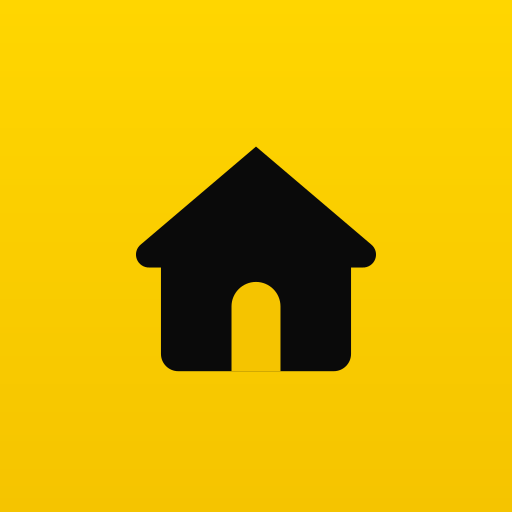
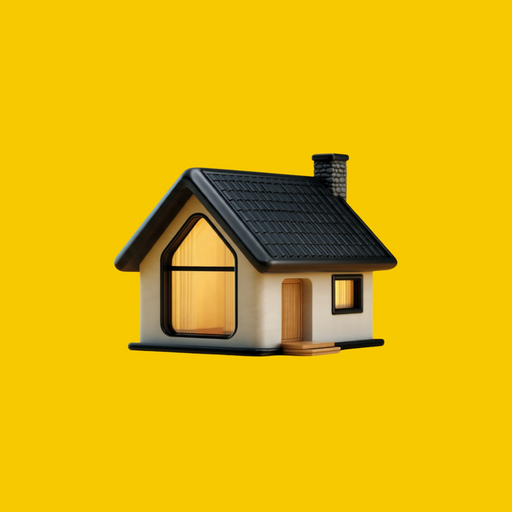
Gastos: Verisure + Zoe · nuevo icono de Casa Caride (#52)
* gastos: agrega Verisure (alarma, paga Flor) y Zoe (paseadora de Fabi) a gastos fijos

* shell: nuevo icono de Casa Caride (casa 3D)

Claude-Session: https://claude.ai/code/session_016dSNnQpofywx8mEgJYkd9d

* shell: usa el nuevo icono de casa en el header y en login/invite (reemplaza el emoji)

Claude-Session: https://claude.ai/code/session_016dSNnQpofywx8mEgJYkd9d

* shell: bump service worker cache a v9 para purgar iconos cacheados

Claude-Session: https://claude.ai/code/session_016dSNnQpofywx8mEgJYkd9d

* shell: actualiza icono de Casa Caride (nueva casa 3D) + bump caché sw v10

Claude-Session: https://claude.ai/code/session_016dSNnQpofywx8mEgJYkd9d

---------

Changed region(s): [[0.2188, 0.2812, 0.7812, 0.75]]

diff --git a/apps/gastos/lib/seed.ts b/apps/gastos/lib/seed.ts
@@ -35,6 +35,9 @@ export const SEED_FIJOS: FijoInput[] = [
   f({ nombre: 'Garita seguridad', categoria: 'Seguridad', pagador: 'Tomás', moneda: 'ARS',
       montoEstimado: 0, diaVencimiento: null, medioPago: 'Transferencia',
       notas: 'Alias Ferias26 — Diana Chang Paredes', automatico: false }),
+  f({ nombre: 'Verisure (alarma)', categoria: 'Seguridad', pagador: 'Flor', moneda: 'ARS',
+      montoEstimado: 0, diaVencimiento: null, medioPago: 'Tarjeta crédito de Flor',
+      notas: 'Alarma. Lo paga Flor con su tarjeta de crédito.', automatico: true }),
   f({ nombre: 'Movistar (internet)', categoria: 'Servicios', pagador: 'Tomás', moneda: 'ARS',
       montoEstimado: 0, diaVencimiento: null, medioPago: 'Mercado Pago (servicios)',
       notas: null, automatico: false }),
@@ -50,6 +53,9 @@ export const SEED_FIJOS: FijoInput[] = [
   f({ nombre: 'Jardinero', categoria: 'Hogar', pagador: 'Tomás', moneda: 'ARS',
       montoEstimado: 0, diaVencimiento: null, medioPago: 'Transferencia',
       notas: 'Cada vez que viene — omitir los meses que no viene.', automatico: false }),
+  f({ nombre: 'Zoe (paseadora de Fabi)', categoria: 'Hogar', pagador: 'Tomás', moneda: 'ARS',
+      montoEstimado: 0, diaVencimiento: null, medioPago: 'Transferencia',
+      notas: 'Paseadora de Fabi. Varias transferencias durante el mes — sumar el total.', automatico: false }),
 
   // ── Suscripciones ──
   f({ nombre: 'HBO Max', categoria: 'Suscripciones', pagador: 'Tomás', moneda: 'ARS',

diff --git a/apps/shell/app/invite/[token]/page.tsx b/apps/shell/app/invite/[token]/page.tsx
@@ -18,7 +18,7 @@ export default async function InvitePage({
     return (
       <main className="login">
         <div className="login__card">
-          <div className="login__logo" aria-hidden>🏡</div>
+          <img className="login__logo" src="/icon-192.png" alt="" aria-hidden width={64} height={64} />
           <h1 className="login__title">Invitación no válida</h1>
           <p className="login__subtitle">El link venció o ya fue usado. Pedile a Tomás uno nuevo.</p>
         </div>
@@ -33,7 +33,7 @@ export default async function InvitePage({
   return (
     <main className="login">
       <div className="login__card">
-        <div className="login__logo" aria-hidden>🏡</div>
+        <img className="login__logo" src="/icon-192.png" alt="" aria-hidden width={64} height={64} />
         <h1 className="login__title">Te invitaron a Casa Caride</h1>
         <p className="login__subtitle">
           {appNames ? <>Vas a tener acceso a: <strong>{appNames}</strong></> : 'Entrá con tu cuenta de Google'}

diff --git a/apps/shell/app/globals.css b/apps/shell/app/globals.css
@@ -38,6 +38,7 @@ body {
   place-items: center;
   font-size: 30px;
   box-shadow: var(--glow-accent);
+  object-fit: cover;
 }
 
 .home__heading {
@@ -328,7 +329,7 @@ body {
   text-align: center;
   box-shadow: var(--shadow-md);
 }
-.login__logo { font-size: 48px; line-height: 1; }
+.login__logo { width: 64px; height: 64px; border-radius: var(--r-lg); object-fit: cover; box-shadow: var(--glow-accent); }
 .login__title { font-size: 1.5rem; font-weight: 800; margin: 12px 0 4px; }
 .login__subtitle { font-size: 0.9rem; color: var(--text-sec); margin-bottom: 24px; }
 .login__error {

diff --git a/apps/shell/app/page.tsx b/apps/shell/app/page.tsx
@@ -34,7 +34,7 @@ export default async function Home({
   return (
     <main className="home">
       <header className="home__header">
-        <div className="home__logo" aria-hidden>🏡</div>
+        <img className="home__logo" src="/icon-192.png" alt="" aria-hidden width={54} height={54} />
         <div className="home__heading">
           <h1 className="home__title">Casa Caride</h1>
           <p className="home__subtitle">Apps para la vida de todos los días</p>

diff --git a/apps/shell/app/login/page.tsx b/apps/shell/app/login/page.tsx
@@ -12,7 +12,7 @@ export default async function LoginPage({
   return (
     <main className="login">
       <div className="login__card">
-        <div className="login__logo" aria-hidden>🏡</div>
+        <img className="login__logo" src="/icon-192.png" alt="" aria-hidden width={64} height={64} />
         <h1 className="login__title">Casa Caride</h1>
         <p className="login__subtitle">Las apps de la familia, en un solo lugar</p>
 

diff --git a/apps/shell/public/sw.js b/apps/shell/public/sw.js
@@ -6,7 +6,7 @@
  *  - Estáticos del shell (íconos, manifest): stale-while-revalidate.
  * Scope "/" -> cubre todas las mini-apps del mismo origen.
  */
-const CACHE = 'casa-caride-v8'
+const CACHE = 'casa-caride-v10'
 const APP_SHELL = ['/', '/manifest.webmanifest', '/icon-192.png', '/icon-512.png']
 
 self.addEventListener('install', (event) => {

diff --git a/apps/gastos/lib/constants.ts b/apps/gastos/lib/constants.ts
@@ -23,6 +23,7 @@ export const MEDIOS_PAGO = [
   'AFIP',
   'Municipalidad (web)',
   'Tarjeta Visa de Flor',
+  'Tarjeta crédito de Flor',
 ] as const
 
 export const COMPARTIDO = 'Compartido'
